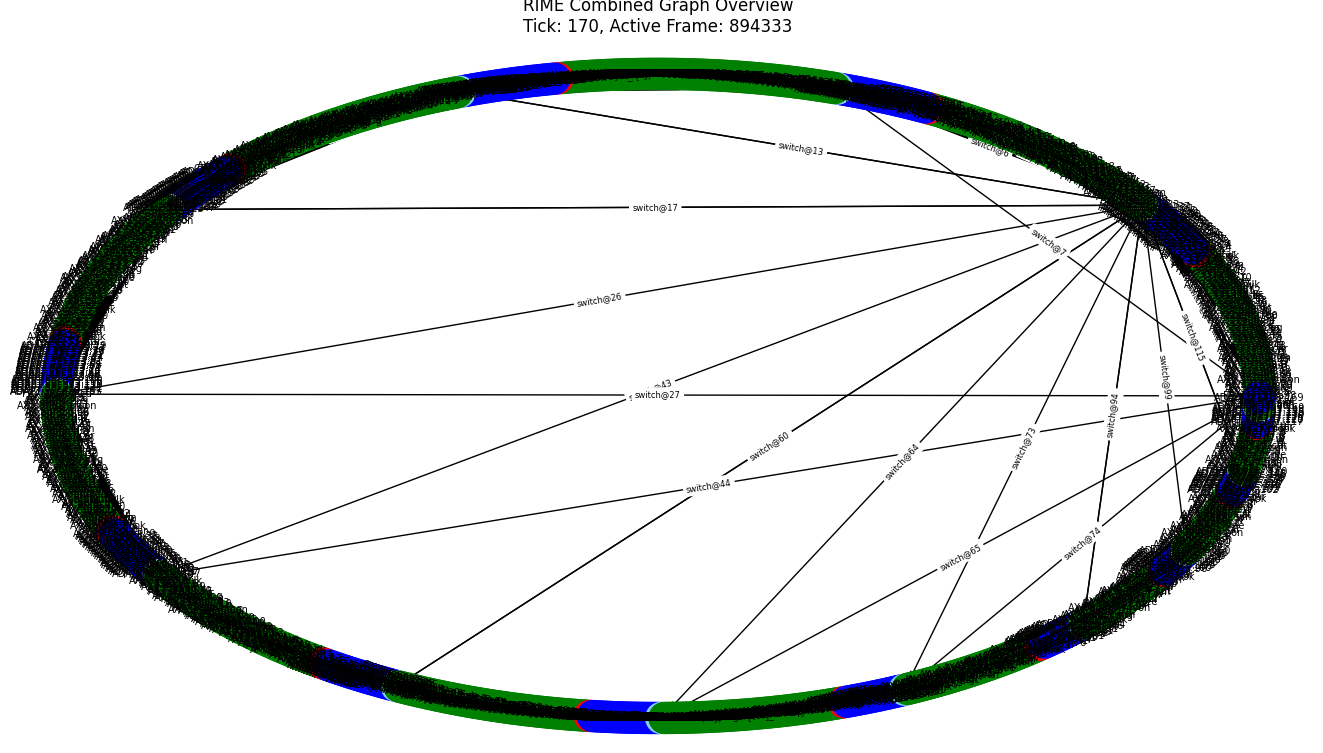
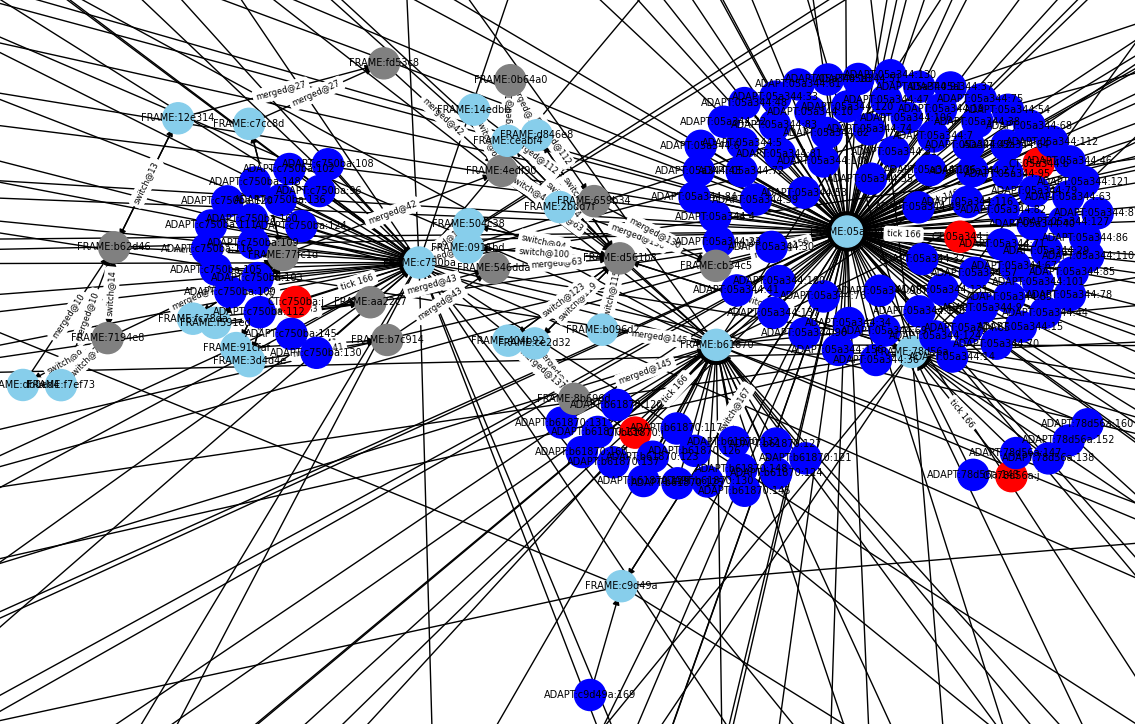
Updated unified graph

diff --git a/RIME_unified_graph.py b/RIME_unified_graph.py
@@ -42,11 +42,16 @@ def build_combined_graph(state):
         elif event['event'] == 'frame_created':
             new_f = f"FRAME:{event['new_frame'][:6]}"
             G.add_node(new_f, type='frame', color='skyblue')
+        elif event['event'] == 'frames_merged':
+            merged_to = f"FRAME:{event['to'][:6]}"
+            for fid in event['from']:
+                merged_from = f"FRAME:{fid[:6]}"
+                G.add_edge(merged_from, merged_to, label=f"merged@{event['tick']}", color='purple')
 
     return G
 
 def draw_combined_graph(G, state):
-    pos = nx.circular_layout(G)
+    pos = nx.spring_layout(G, seed=42)
     node_colors = [data.get('color', 'gray') for _, data in G.nodes(data=True)]
 
     plt.figure(figsize=(18, 12))
